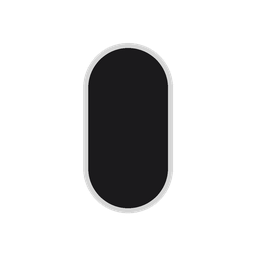
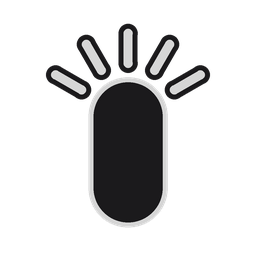
PS4・PS5 の小さいボタンの絵の上に印を入れる（PS4 は SHARE・OPTIONS の文字、PS5 は OPTIONS の三本線と CREATE の放射状の線）。PS4 の OPTIONS は別の絵にする

Changed region(s): [[0.1562, 0.0938, 0.8438, 0.9062]]

diff --git a/tools/make_ps_button_icons.py b/tools/make_ps_button_icons.py
@@ -1,21 +1,36 @@
-# PlayStation の表記（PS3 以前・PS4・PS5）で出し分ける小さいボタンの絵を5枚作る。
+# PlayStation の表記（PS3 以前・PS4・PS5）で出し分ける小さいボタンの絵を6枚作る。
 # PS3 の SELECT は四角（角丸の長方形）、START は右向きの三角。
-# PS4・PS5 の SHARE・CREATE・OPTIONS は縦長のカプセル。
-# 実物のボタンには記号が無く、名前は本体に印刷されているので、ボタンの中には何も描かない。
+# PS4・PS5 の SHARE・CREATE・OPTIONS は縦長のカプセルで、実物と同じく本体の印をカプセルの上に描く。
+#   PS4 SHARE: 「SHARE」の文字 / PS4 OPTIONS: 「OPTIONS」の文字（文字の大きさは共通）
+#   PS5 OPTIONS: 横棒 3 本 / PS5 CREATE: 上向きに放射する 5 本の線
+#   印は明るい色で、まわりを暗い色で縁取る（どんな背景でも読めるように）。ボタンの中には何も描かない。
 # 入力: assets/ui/controls/button_minus.png（横長のカプセル形の小さいボタン。色・縁取りの太さ・大きさの見本）
+#       assets/fonts/noto_sans_cjk_jp_bold_ui.otf（文字の印のフォント）
 # 出力: assets/ui/controls/ の button_select.png・button_start.png・button_share.png・
-#       button_create.png・button_options.png（256x256 RGBA、上書き、背景は透明）
+#       button_create.png・button_options.png・button_options_ps4.png（256x256 RGBA、上書き、背景は透明）
 # 実行: uv run --with pillow --with numpy python tools/make_ps_button_icons.py
 # 作り方: 見本から外形の高さ H、縁取りの色と太さ、内側の暗い塗りの色を測る。
 #       形は 4 倍の大きさで「縁取りの色で外形を塗る → 縁取りの太さだけ内側に縮めた形を暗い色で塗る」で描き、
 #       アルファも 4 倍で描いてから 256x256 に LANCZOS で縮める（縁が滑らかになる）。形の中心は画像の中心。
+import math
 from pathlib import Path
 
 import numpy as np
-from PIL import Image, ImageDraw
+from PIL import Image, ImageDraw, ImageFont
 
 ROOT = Path(__file__).resolve().parent.parent
 CTRL = ROOT / "assets/ui/controls"
+FONT_PATH = ROOT / "assets/fonts/noto_sans_cjk_jp_bold_ui.otf"
+CAP_H = 150.0  # 印付きのカプセルの高さ（256 単位）
+CAP_RATIO = 1.9  # カプセルの高さ / 幅
+MARK_GAP = 14.0  # 印とカプセルのすき間
+OUTLINE = 5.0  # 印のまわりの暗い縁取り
+TEXT_MAX_W = 236.0  # 文字の幅の上限（縁取り込み）
+TEXT_MAX_CAP = 44.0  # 大文字の高さの上限
+BAR_W_RATIO = 0.9  # 横棒の長さ / カプセルの幅
+RAY_THICK = 9.0  # 横棒・放射線の太さ（横棒の間隔も同じ）
+RAY_GAP = 14.0  # 放射線の始まり: C から カプセルの半幅 + この値
+RAY_LEN = 30.0  # 放射線の長さ
 DARK_LEVEL = 90  # これ未満を本体の暗い画素とみなす
 MIN_BODY = 2000  # 本体とみなす連結成分の最小画素数
 SS = 4  # 描くときの拡大率
@@ -64,10 +79,10 @@ def measure(src: np.ndarray):
     return w, h, tuple(int(round(c)) for c in border), thick, tuple(int(round(c)) for c in dark)
 
 
-def capsule(d: ImageDraw.ImageDraw, w: float, h: float, shrink: float, fill) -> None:
-    """縦長のカプセル（上下が半円）。shrink だけ内側に縮める。"""
+def capsule(d: ImageDraw.ImageDraw, w: float, h: float, shrink: float, fill, cy: float = CENTER) -> None:
+    """縦長のカプセル（上下が半円）。shrink だけ内側に縮める。cy は中心の y。"""
     x0, x1 = (CENTER - w / 2 + shrink) * SS, (CENTER + w / 2 - shrink) * SS
-    y0, y1 = (CENTER - h / 2 + shrink) * SS, (CENTER + h / 2 - shrink) * SS
+    y0, y1 = (cy - h / 2 + shrink) * SS, (cy + h / 2 - shrink) * SS
     d.rounded_rectangle([x0, y0, x1, y1], radius=(x1 - x0) / 2, fill=fill)
 
 
@@ -102,15 +117,83 @@ def rounded_triangle(d: ImageDraw.ImageDraw, w: float, h: float, radius: float, 
             d.ellipse([(a[0] - grow) * k, (a[1] - grow) * k, (a[0] + grow) * k, (a[1] + grow) * k], fill=fill)
 
 
-def render(shape_fn, border, dark, thick: float) -> Image.Image:
-    """4 倍の板に、縁取りの色で外形 → 縮めた形を暗い色で描き、256x256 に縮める。"""
-    size = 256 * SS
-    color = Image.new("RGB", (size, size), border)
-    alpha = Image.new("L", (size, size), 0)
-    dark_mask = Image.new("L", (size, size), 0)
-    shape_fn(ImageDraw.Draw(alpha), 0.0, 255)
-    shape_fn(ImageDraw.Draw(dark_mask), thick, 255)
-    color.paste(Image.new("RGB", (size, size), dark), mask=dark_mask)
+def thick_line(d: ImageDraw.ImageDraw, p0, p1, width: float, fill) -> None:
+    """両端が丸い太線（256 単位の座標と太さ）。"""
+    k = SS
+    d.line([p0[0] * k, p0[1] * k, p1[0] * k, p1[1] * k], fill=fill, width=int(round(width * k)))
+    r = width / 2
+    for x, y in (p0, p1):
+        d.ellipse([(x - r) * k, (y - r) * k, (x + r) * k, (y + r) * k], fill=fill)
+
+
+def load_font(size_ss: int) -> ImageFont.FreeTypeFont:
+    return ImageFont.truetype(str(FONT_PATH), size_ss)
+
+
+def pick_text_size() -> int:
+    """SHARE・OPTIONS 共通の文字の大きさ（4 倍の板での px）。
+    OPTIONS が縁取り込みで幅 TEXT_MAX_W に収まり、大文字の高さが TEXT_MAX_CAP 以下になる最大の値。"""
+    best = 0
+    for size in range(4, 400 * SS):
+        font = load_font(size)
+        l, t, r, b = font.getbbox("OPTIONS")
+        hl, ht, hr, hb = font.getbbox("H")
+        if (r - l) + 2 * OUTLINE * SS > TEXT_MAX_W * SS or (hb - ht) > TEXT_MAX_CAP * SS:
+            break
+        best = size
+    return best
+
+
+def text_mark(text: str, size_ss: int):
+    """文字の印。(インクの高さ, 描く関数 fn(d, x, y, grow, fill)) を返す。x, y は 256 単位の左上。"""
+    font = load_font(size_ss)
+    l, t, r, b = font.getbbox(text)
+    ink_w, ink_h = (r - l) / SS, (b - t) / SS
+
+    def fn(d, cx, top, grow, fill):
+        # インクの左上が (cx - ink_w/2, top) に来るように置く。grow は縁取りの太さ
+        x, y = (cx - ink_w / 2) * SS - l, top * SS - t
+        d.text((x, y), text, font=font, fill=fill, stroke_width=int(round(grow * SS)), stroke_fill=fill)
+
+    return ink_h, fn
+
+
+def bars_mark(cap_w: float):
+    """PS5 OPTIONS: 横棒 3 本の印。"""
+    bar_w = cap_w * BAR_W_RATIO
+    ink_h = 3 * RAY_THICK + 2 * RAY_THICK
+
+    def fn(d, cx, top, grow, fill):
+        for i in range(3):
+            cy = top + RAY_THICK / 2 + i * 2 * RAY_THICK
+            thick_line(d, (cx - bar_w / 2 + RAY_THICK / 2, cy), (cx + bar_w / 2 - RAY_THICK / 2, cy),
+                       RAY_THICK + 2 * grow, fill)
+
+    return ink_h, fn
+
+
+def rays_mark(cap_w: float):
+    """PS5 CREATE: 上向きに放射する 5 本の線の印。
+    中心 C はカプセルの上の半円の中心。ink_h は C から見た線の上端までの高さ（カプセルの上端より上の部分）。"""
+    r0 = cap_w / 2 + RAY_GAP
+    r1 = r0 + RAY_LEN
+    angles = [math.radians(a) for a in (-60, -30, 0, 30, 60)]
+    # カプセルの上端（= C から cap_w/2 上）より上に出る高さ
+    top_above_c = max(r1 * math.cos(a) for a in angles) + RAY_THICK / 2
+    ink_h = top_above_c - cap_w / 2
+
+    def fn(d, cx, cy, grow, fill):
+        # cy は C の y 座標
+        for a in angles:
+            p0 = (cx + r0 * math.sin(a), cy - r0 * math.cos(a))
+            p1 = (cx + r1 * math.sin(a), cy - r1 * math.cos(a))
+            thick_line(d, p0, p1, RAY_THICK + 2 * grow, fill)
+
+    return ink_h, fn
+
+
+def finish(color: Image.Image, alpha: Image.Image) -> Image.Image:
+    """4 倍の色の板とアルファの板を 256x256 に縮める。"""
     # 透明部分の色が縮小で混ざらないよう、アルファで重みを付けて縮める
     a = np.asarray(alpha, dtype=np.float32) / 255
     rgb = np.asarray(color, dtype=np.float32) * a[..., None]
@@ -123,6 +206,46 @@ def render(shape_fn, border, dark, thick: float) -> Image.Image:
     out[..., 3] = np.clip(small_a * 255 + 0.5, 0, 255).astype(np.uint8)
     out[out[..., 3] == 0, :3] = 0
     return Image.fromarray(out, "RGBA")
+
+
+def render(shape_fn, border, dark, thick: float) -> Image.Image:
+    """4 倍の板に、縁取りの色で外形 → 縮めた形を暗い色で描き、256x256 に縮める。"""
+    size = 256 * SS
+    color = Image.new("RGB", (size, size), border)
+    alpha = Image.new("L", (size, size), 0)
+    dark_mask = Image.new("L", (size, size), 0)
+    shape_fn(ImageDraw.Draw(alpha), 0.0, 255)
+    shape_fn(ImageDraw.Draw(dark_mask), thick, 255)
+    color.paste(Image.new("RGB", (size, size), dark), mask=dark_mask)
+    return finish(color, alpha)
+
+
+def render_marked(cap_w: float, cap_h: float, mark, rays: bool, border, dark, thick: float) -> Image.Image:
+    """縦長のカプセルの上に印を載せた絵。印は明るい色で、まわりを暗い色で OUTLINE だけ縁取る。
+    rays=False: 印（高さ ink_h）+ すき間 MARK_GAP + カプセルを縦中央にそろえる。
+    rays=True: 印の fn の第 3 引数はカプセルの上の半円の中心 C の y。カプセルと放射線の外接矩形を縦中央にそろえる。"""
+    ink_h, fn = mark
+    total = ink_h + (0 if rays else MARK_GAP) + cap_h
+    top = CENTER - total / 2
+    cap_top = top + ink_h + (0 if rays else MARK_GAP)
+    cap_cy = cap_top + cap_h / 2
+    mark_y = cap_top + cap_w / 2 if rays else top
+
+    size = 256 * SS
+    color = Image.new("RGB", (size, size), border)
+    alpha = Image.new("L", (size, size), 0)
+    dark_mask = Image.new("L", (size, size), 0)
+    light_mask = Image.new("L", (size, size), 0)
+    cap = lambda d, s, f: capsule(d, cap_w, cap_h, s, f, cap_cy)
+    cap(ImageDraw.Draw(alpha), 0.0, 255)
+    cap(ImageDraw.Draw(dark_mask), thick, 255)
+    fn(ImageDraw.Draw(alpha), CENTER, mark_y, OUTLINE, 255)
+    fn(ImageDraw.Draw(dark_mask), CENTER, mark_y, OUTLINE, 255)
+    fn(ImageDraw.Draw(light_mask), CENTER, mark_y, 0.0, 255)
+    dark_img = Image.new("RGB", (size, size), dark)
+    color.paste(dark_img, mask=dark_mask)
+    color.paste(Image.new("RGB", (size, size), border), mask=light_mask)
+    return finish(color, alpha)
 
 
 def main() -> None:
@@ -138,16 +261,27 @@ def main() -> None:
     rect_w, rect_h, rect_r = h * 1.5 * scale, h * 0.95 * scale, h * 0.15 * scale
     tri_w, tri_h, tri_r = h * 1.1 * scale, h * 1.25 * scale, h * 0.08 * scale
 
-    capsule_fn = lambda d, s, f: capsule(d, cap_w, cap_h, s, f)
+    # 印付きの 4 枚のカプセルは高さ CAP_H、幅 CAP_H / CAP_RATIO
+    mcap_h, mcap_w = CAP_H, CAP_H / CAP_RATIO
+    text_size = pick_text_size()
+    print(f"文字の大きさ={text_size / SS:.2f}px（4倍の板で {text_size}）")
+
     jobs = {
-        "button_select": lambda d, s, f: rounded_rect(d, rect_w, rect_h, rect_r, s, f),
-        "button_start": lambda d, s, f: rounded_triangle(d, tri_w, tri_h, tri_r, s, f),
-        "button_share": capsule_fn,
-        "button_create": capsule_fn,
-        "button_options": capsule_fn,
+        "button_select": lambda: render(
+            lambda d, s, f: rounded_rect(d, rect_w, rect_h, rect_r, s, f), border, dark, thick),
+        "button_start": lambda: render(
+            lambda d, s, f: rounded_triangle(d, tri_w, tri_h, tri_r, s, f), border, dark, thick),
+        "button_share": lambda: render_marked(
+            mcap_w, mcap_h, text_mark("SHARE", text_size), False, border, dark, thick),
+        "button_options_ps4": lambda: render_marked(
+            mcap_w, mcap_h, text_mark("OPTIONS", text_size), False, border, dark, thick),
+        "button_options": lambda: render_marked(
+            mcap_w, mcap_h, bars_mark(mcap_w), False, border, dark, thick),
+        "button_create": lambda: render_marked(
+            mcap_w, mcap_h, rays_mark(mcap_w), True, border, dark, thick),
     }
-    for name, fn in jobs.items():
-        result = render(fn, border, dark, thick)
+    for name, make in jobs.items():
+        result = make()
         a = np.asarray(result)[..., 3]
         corners = [int(a[0, 0]), int(a[0, -1]), int(a[-1, 0]), int(a[-1, -1])]
         assert all(c == 0 for c in corners), corners
